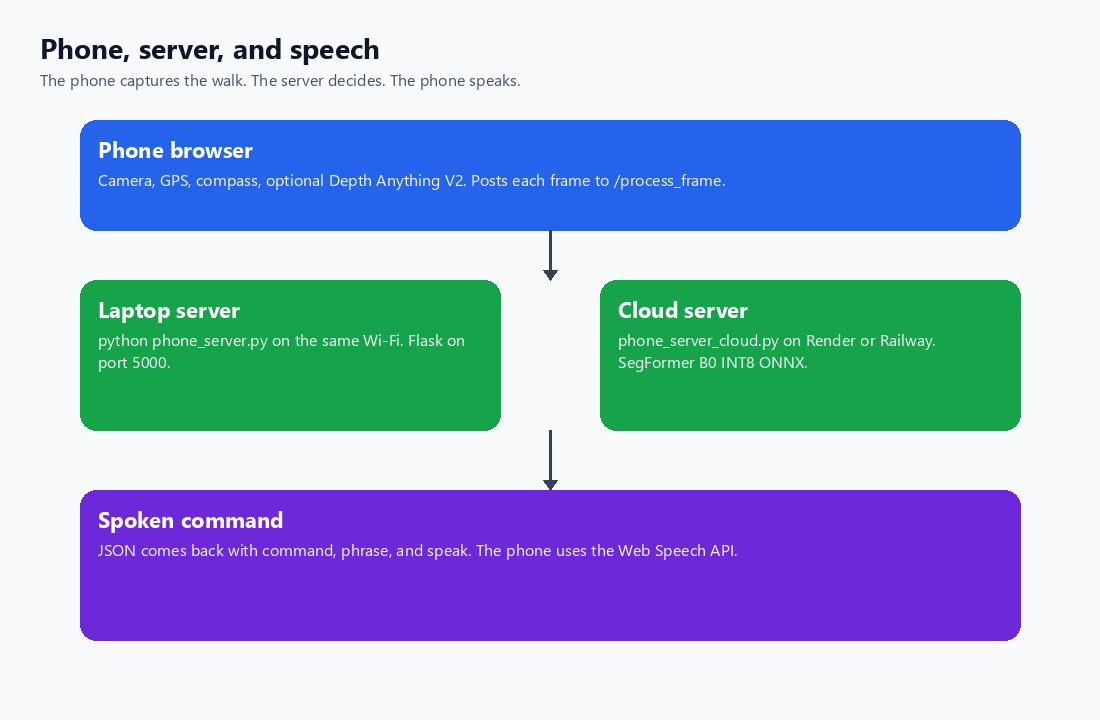
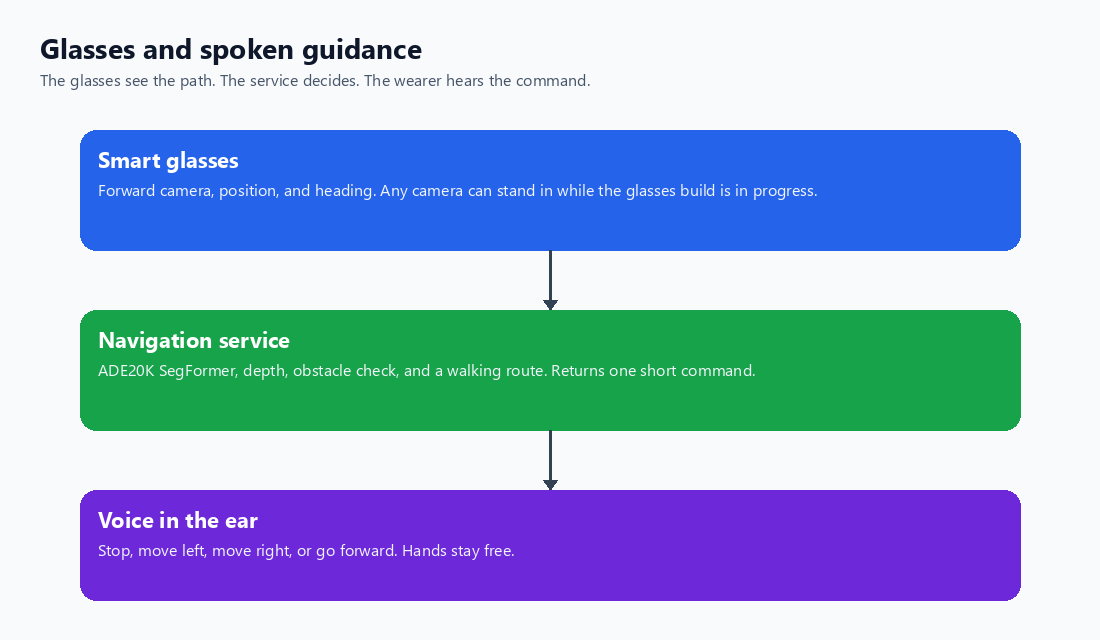
Reframe the README architecture around smart glasses.

diff --git a/scripts/render_diagrams.py b/scripts/render_diagrams.py
@@ -84,17 +84,16 @@ def canvas(w: int, h: int) -> tuple[Image.Image, ImageDraw.ImageDraw]:
 
 
 def system_context() -> None:
-    img, draw = canvas(1100, 720)
+    img, draw = canvas(1100, 640)
     title = font(28, bold=True)
-    draw.text((40, 28), "Phone, server, and speech", font=title, fill=INK)
+    draw.text((40, 28), "Glasses and spoken guidance", font=title, fill=INK)
     sub = font(16)
-    draw.text((40, 68), "The phone captures the walk. The server decides. The phone speaks.", font=sub, fill=MUTED)
-    label(draw, (80, 120, 1020, 230), "Phone browser", "Camera, GPS, compass, optional Depth Anything V2. Posts each frame to /process_frame.", BLUE)
-    arrow(draw, 550, 230, 280)
-    label(draw, (80, 280, 500, 430), "Laptop server", "python phone_server.py on the same Wi-Fi. Flask on port 5000.", GREEN)
-    label(draw, (600, 280, 1020, 430), "Cloud server", "phone_server_cloud.py on Render or Railway. SegFormer B0 INT8 ONNX.", GREEN)
+    draw.text((40, 68), "The glasses see the path. The service decides. The wearer hears the command.", font=sub, fill=MUTED)
+    label(draw, (80, 130, 1020, 250), "Smart glasses", "Forward camera, position, and heading. Any camera can stand in while the glasses build is in progress.", BLUE)
+    arrow(draw, 550, 250, 310)
+    label(draw, (80, 310, 1020, 430), "Navigation service", "ADE20K SegFormer, depth, obstacle check, and a walking route. Returns one short command.", GREEN)
     arrow(draw, 550, 430, 490)
-    label(draw, (80, 490, 1020, 640), "Spoken command", "JSON comes back with command, phrase, and speak. The phone uses the Web Speech API.", PURPLE)
+    label(draw, (80, 490, 1020, 600), "Voice in the ear", "Stop, move left, move right, or go forward. Hands stay free.", PURPLE)
     img.save(OUT / "01-system-context.png")
 
 
@@ -102,13 +101,13 @@ def pipeline() -> None:
     img, draw = canvas(1100, 980)
     draw.text((40, 24), "Frame pipeline", font=font(28, bold=True), fill=INK)
     steps = [
-        (BLUE, "Capture", "Phone camera, GPS, and heading. Laptop webcam uses the same loop."),
+        (BLUE, "Capture", "Forward camera frame, position, and heading from the glasses."),
         (GREEN, "Segmentation", "ADE20K SegFormer. ONNX INT8 in the cloud, transformers on a laptop."),
-        (GREEN, "Depth", "Phone depth_m when present. Otherwise a segmentation proxy."),
+        (GREEN, "Depth", "Metric depth from the glasses when present. Otherwise a segmentation proxy."),
         (AMBER, "CARE", "Hazard check from obstacle pixels and depth. Stop overrides the route."),
         (AMBER, "Spatial reasoner", "Picks stop, turn, or go forward. Optional Llama 3.1 can rephrase."),
         (PURPLE, "Phrase and validator", "config/phrases.yaml plus cooldown so the same line is not repeated."),
-        (PURPLE, "Speech", "Web Speech API on the phone. pyttsx3 on the laptop."),
+        (PURPLE, "Speech", "Spoken guidance in the ear."),
     ]
     y = 80
     for color, title, body in steps:
@@ -117,23 +116,6 @@ def pipeline() -> None:
             arrow(draw, 550, y + 90, y + 118)
         y += 118
     img.save(OUT / "02-pipeline-architecture.png")
-
-
-def roadmap() -> None:
-    img, draw = canvas(1100, 520)
-    draw.text((40, 24), "From laptop to phone", font=font(28, bold=True), fill=INK)
-    draw.text((40, 64), "Develop on a webcam, then run the same decision loop from the phone.", font=font(16), fill=MUTED)
-    boxes = [
-        (40, BLUE, "1. Laptop", "assistive-nav preview and run. Webcam, overlay, and pytest."),
-        (390, GREEN, "2. Same Wi-Fi", "START_PHONE_SERVER.bat. Phone opens http://laptop-ip:5000."),
-        (740, PURPLE, "3. Cloud", "Render uses render.yaml, the ONNX model, and Google walking routes."),
-    ]
-    for x, color, title, body in boxes:
-        label(draw, (x, 140, x + 320, 360), title, body, color)
-    for x in (360, 710):
-        draw.line((x, 250, x + 22, 250), fill=SLATE, width=3)
-        draw.polygon([(x + 18, 243), (x + 18, 257), (x + 30, 250)], fill=SLATE)
-    img.save(OUT / "03-roadmap-dev-to-glasses.png")
 
 
 def decision() -> None:
@@ -158,7 +140,6 @@ def main() -> None:
     OUT.mkdir(parents=True, exist_ok=True)
     system_context()
     pipeline()
-    roadmap()
     decision()
     for path in sorted(OUT.glob("*.png")):
         print(path, path.stat().st_size)

diff --git a/README.md b/README.md
@@ -1,47 +1,45 @@
 # Smart Cane AI
 
-Real-time walking guidance from a phone camera. The phone sends each frame, GPS, and heading to a Python server. The server segments the scene, checks obstacles, and follows a walking route, then returns a short spoken command such as “Stop”, “Move left”, or “Go forward”.
+Real-time walking guidance for smart glasses. A forward camera sends each frame, position, and heading to the navigation service. The service segments the scene, checks obstacles, and follows a walking route, then returns a short spoken command such as “Stop”, “Move left”, or “Go forward”.
 
-The phone speaks the phrase with the Web Speech API. A laptop CLI (`assistive-nav`) runs the same pipeline from a webcam for local development.
+The wearer hears the phrase. The camera that captures the frame does not change the decision. While the glasses build is in progress, any forward camera can feed the same pipeline.
 
 ## What it does
 
 | Piece | Role |
 |-------|------|
-| Phone UI | `phone_client.html` — camera, GPS, compass, optional on-device depth, speech |
-| Laptop server | `python phone_server.py` — same Wi-Fi, Flask on port 5000 |
-| Cloud server | `phone_server_cloud.py` — Render or Railway (`render.yaml`, `Procfile`) |
-| Segmentation | ADE20K SegFormer, 150 classes. Cloud default is INT8 ONNX (`segformer_b0_ade20k_int8.onnx`) |
-| Depth | Phone posts `depth_m` from Depth Anything V2, or the server uses a segmentation proxy |
+| Glasses | Forward camera, position, heading, and audio in the ear |
+| Navigation service | Segmentation, depth, route, and one spoken command |
+| Segmentation | ADE20K SegFormer, 150 classes. Deployed model is INT8 ONNX (`segformer_b0_ade20k_int8.onnx`) |
+| Depth | Metric depth from the glasses when present, otherwise a segmentation proxy |
 | Safety | CARE heuristic (optional HTTP). Stop wins over route guidance |
 | Route | Google Directions walking routes, with OSRM as the no-key fallback |
-| Speech | Web Speech API on the phone, pyttsx3 on the laptop |
+| Speech | Short commands spoken to the wearer |
 
 Segmentation is required. Depth, CARE, and the LLM all fall back to rules when their service is off.
 
 ## Architecture
 
-The phone captures the walk, the server decides, and the phone speaks. Develop on a laptop webcam, then use the same loop from the phone on the same Wi-Fi or on Render.
+The glasses see the path. The service decides. The wearer hears one command.
 
 Diagrams: **[docs/DIAGRAMS.md](docs/DIAGRAMS.md)**. Regenerate the PNGs with `python scripts/render_diagrams.py`.
 
 | Diagram | Preview |
 |---------|---------|
-| Phone, server, and speech | ![phone and server](docs/images/01-system-context.png) |
+| Glasses and spoken guidance | ![glasses and guidance](docs/images/01-system-context.png) |
 | Frame pipeline | ![pipeline](docs/images/02-pipeline-architecture.png) |
-| Laptop to phone | ![roadmap](docs/images/03-roadmap-dev-to-glasses.png) |
 | Decision priority | ![decision](docs/images/05-decision-priority.png) |
 
 ## Pipeline
 
 ```text
-Phone camera + GPS + heading
+Glasses camera + position + heading
         |
-POST /process_frame
+Frame in
         |
-ADE20K SegFormer (ONNX INT8 on cloud, transformers locally)
+ADE20K SegFormer
         |
-Depth (client meters, else segmentation proxy)
+Depth (glasses meters, else segmentation proxy)
         |
 CARE safety check
         |
@@ -49,14 +47,14 @@ Spatial reasoner (+ optional Llama 3.1)
         |
 Phrase composer + cooldown validator
         |
-JSON { command, phrase, speak }
+Spoken command
         |
-Phone speaks the phrase
+Voice in the ear
 ```
 
 | Stage | Module |
 |-------|--------|
-| Capture | `navigation/capture/camera.py` (laptop) or `phone_client.html` |
+| Capture | Forward camera frame into the pipeline |
 | Segmentation | `navigation/perception/segmentation_segformer_onnx.py`, `segmentation_segformer.py` |
 | Depth | `navigation/perception/depth.py` |
 | Safety | `navigation/reasoning/care.py` |
@@ -64,7 +62,7 @@ Phone speaks the phrase
 | Route | `navigation/maps/google_directions.py`, `navigation/maps/router.py` |
 | Phrases | `navigation/reasoning/composer.py` |
 | Guardrails | `navigation/output/validator.py` |
-| Laptop speech | `navigation/output/tts.py` |
+| Speech | `navigation/output/tts.py` |
 | Frame loop | `navigation/pipeline/runner.py` |
 
 Class groups, distance buckets, and phrase templates live in `config/default.yaml` and `config/phrases.yaml`.
@@ -94,23 +92,23 @@ copy .env.example .env
 | Extra | Install | Purpose |
 |-------|---------|---------|
 | `segformer` | `pip install -e ".[segformer]"` | torch, transformers, onnxruntime |
-| `server` | `pip install -e ".[server]"` | Flask phone server |
+| `server` | `pip install -e ".[server]"` | Flask frame server |
 | `llm` | `pip install -e ".[llm]"` | OpenAI-compatible Llama client |
-| `tts` | `pip install -e ".[tts]"` | pyttsx3 on the laptop |
+| `tts` | `pip install -e ".[tts]"` | Spoken output while developing |
 | `dev` | `pip install -e ".[dev]"` | pytest |
 
 Cloud deploys do not install torch. They use `requirements-cloud.txt` and the ONNX file already in the repo.
 
 ### Segmentation settings
 
-| Setting | Laptop default (`.env.example`) | Cloud (`render.yaml`) |
+| Setting | Local default (`.env.example`) | Cloud (`render.yaml`) |
 |---------|----------------------------------|------------------------|
 | `SEGMENTER_BACKEND` | `segformer` | `segformer_onnx` |
 | `SEGFORMER_MODEL_ID` | `nvidia/segformer-b2-finetuned-ade-512-512` | `nvidia/segformer-b0-finetuned-ade-512-512` |
 | `SEGFORMER_ONNX_PATH` | — | `segformer_b0_ade20k_int8.onnx` |
 | `SEGFORMER_DEVICE` | `auto` | `cpu` |
 
-The B2 checkpoint is slow on CPU. For a laptop demo, set `SEGMENTER_BACKEND=segformer_onnx` or pass `--fast`.
+The B2 checkpoint is slow on CPU. For a live demo, set `SEGMENTER_BACKEND=segformer_onnx` or pass `--fast`.
 
 Export a new ONNX file with:
 
@@ -118,7 +116,7 @@ Export a new ONNX file with:
 python scripts/export_segformer_onnx.py
 ```
 
-## Run on a laptop
+## Run the pipeline
 
 ```powershell
 assistive-nav preview --camera 0
@@ -151,15 +149,15 @@ assistive-nav run --no-llm --use-map `
 | `move_left` / `move_right` | Turn toward the path, or step back when far off it |
 | `stop` | Near the destination, or an obstacle in the walking band |
 
-## Run from a phone
+## Development camera
 
-On the laptop, same Wi-Fi as the phone:
+The glasses are the product. Until that camera is wired in, any forward camera can post frames to the same service:
 
 ```powershell
 python phone_server.py
 ```
 
-Or double-click `START_PHONE_SERVER.bat`. Open `http://<laptop-ip>:5000/` on the phone, allow camera and location, set a destination, then start the camera.
+Or double-click `START_PHONE_SERVER.bat`, open the page it prints, allow camera and location, set a destination, then start the camera.
 
 Cloud: connect this repo on [Render](https://render.com) using `render.yaml`. Build command `pip install -r requirements-cloud.txt`. Start command:
 
@@ -169,7 +167,7 @@ gunicorn phone_server_cloud:app --bind 0.0.0.0:$PORT --workers 1 --timeout 120
 
 Set `GOOGLE_MAPS_API_KEY` in the host dashboard. Without it, routes fall back to OSRM. Details: [RENDER_DEPLOYMENT.md](RENDER_DEPLOYMENT.md).
 
-The phone can estimate depth itself (Depth Anything V2 Small, WebGPU with a WASM fallback) and post it as `depth_m`. The `/process_frame` response field `depth_source` is `client` or `proxy`. Meters are approximate. Tuning notes: [PHONE_DEPLOYMENT_GUIDE.md](PHONE_DEPLOYMENT_GUIDE.md).
+A development camera can estimate depth itself (Depth Anything V2 Small) and post it as `depth_m`. The `/process_frame` response field `depth_source` is `client` or `proxy`. Meters are approximate. Tuning notes: [PHONE_DEPLOYMENT_GUIDE.md](PHONE_DEPLOYMENT_GUIDE.md).
 
 ## Tests
 
@@ -181,10 +179,10 @@ pytest
 
 | Guide | Contents |
 |-------|----------|
-| [ARCHITECTURE.md](ARCHITECTURE.md) | Phone client, cloud server, per-frame data flow |
+| [ARCHITECTURE.md](ARCHITECTURE.md) | Per-frame data flow |
 | [RUN_GUIDE.md](RUN_GUIDE.md) | CLI modes: preview, live camera, `--fast`, `--demo` |
 | [WALKING_GUIDE.md](WALKING_GUIDE.md) | Outdoor walking with `walking_mode.bat` |
-| [PHONE_DEPLOYMENT_GUIDE.md](PHONE_DEPLOYMENT_GUIDE.md) | Phone client and on-device depth |
+| [PHONE_DEPLOYMENT_GUIDE.md](PHONE_DEPLOYMENT_GUIDE.md) | Development camera and on-device depth |
 | [RENDER_DEPLOYMENT.md](RENDER_DEPLOYMENT.md) | Render web service |
 | [DEPLOYMENT_CHECKLIST.md](DEPLOYMENT_CHECKLIST.md) | Pre-deploy checks |
 | [VIDEO_PROCESSING_GUIDE.md](VIDEO_PROCESSING_GUIDE.md) | Replay a recorded walk |
@@ -194,8 +192,8 @@ pytest
 ```text
 config/                  default.yaml, phrases.yaml
 navigation/              capture, perception, reasoning, maps, output, pipeline
-phone_client.html        phone UI
-phone_server.py          laptop Flask server
+phone_client.html        development camera page
+phone_server.py          local frame server
 phone_server_cloud.py    cloud entrypoint
 segformer_b0_ade20k_int8.onnx
 scripts/                 fixture, ONNX export, smoke checks

diff --git a/docs/DIAGRAMS.md b/docs/DIAGRAMS.md
@@ -8,20 +8,17 @@ python scripts/render_diagrams.py
 
 | Diagram | File |
 |---------|------|
-| Phone, server, and speech | [images/01-system-context.png](images/01-system-context.png) |
+| Glasses and spoken guidance | [images/01-system-context.png](images/01-system-context.png) |
 | Frame pipeline | [images/02-pipeline-architecture.png](images/02-pipeline-architecture.png) |
-| Laptop to phone | [images/03-roadmap-dev-to-glasses.png](images/03-roadmap-dev-to-glasses.png) |
 | Decision priority | [images/05-decision-priority.png](images/05-decision-priority.png) |
 
-## Phone, server, and speech
+## Glasses and spoken guidance
 
 ```mermaid
 flowchart TD
-    phone["Phone browser<br/>camera, GPS, compass, optional depth"]
-    phone --> laptop["Laptop server<br/>phone_server.py :5000"]
-    phone --> cloud["Cloud server<br/>phone_server_cloud.py ONNX"]
-    laptop --> speech["Spoken command<br/>Web Speech API"]
-    cloud --> speech
+    glasses["Smart glasses<br/>forward camera, position, heading"]
+    glasses --> service["Navigation service<br/>segmentation, depth, route"]
+    service --> voice["Voice in the ear<br/>stop, turn, or go forward"]
 ```
 
 ## Frame pipeline
